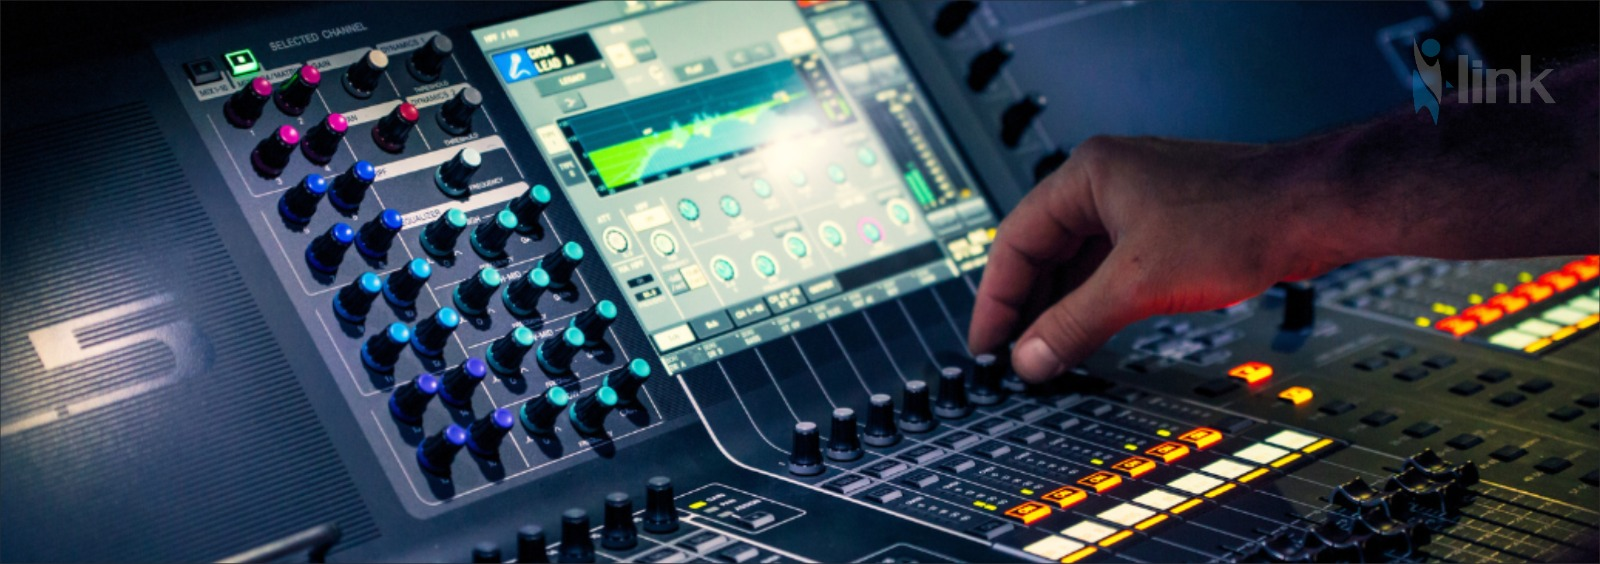
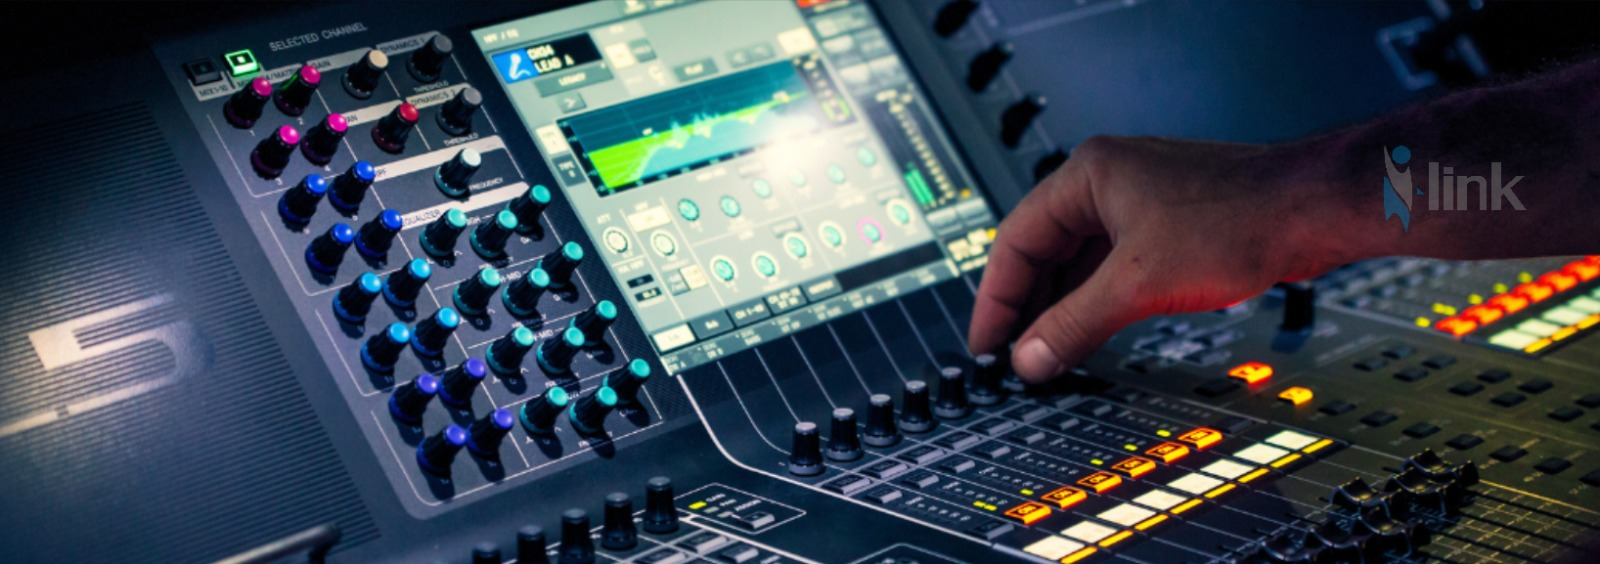
okay

diff --git a/src/app/elv-solution/audio-visual-solution/Audio.tsx b/src/app/elv-solution/audio-visual-solution/Audio.tsx
@@ -178,12 +178,11 @@ export default function Audio() {
             className="absolute inset-0 bg-cover bg-center md:bg-fixed"
             style={{
               backgroundImage: `url('${bannerBackground}')`,
-              filter: "brightness(0.4)",
+            
             }}
           />
           {/* Dark overlay for better text visibility */}
-          <div className="absolute inset-0 bg-gradient-to-b from-black/60 via-black/40 to-black/80" />
-        </motion.div>
+            </motion.div>
 
         {/* Content Container */}
         <motion.div
@@ -323,7 +322,7 @@ export default function Audio() {
                 className="relative aspect-[16/10] bg-gray-900 overflow-hidden shadow-2xl"
               >
                 <Image
-                  src="/images/OurCompanies.png"
+                  src="/audio/av.png"
                   alt="Professional presenting solutions"
                   fill
                   className="object-cover hover:scale-105 transition-all duration-700 ease-out"
@@ -441,7 +440,7 @@ export default function Audio() {
                 className=" relative w-full bg-gray-900 overflow-hidden shadow-2xl h-[220px] sm:h-[260px]  md:h-[320px]  lg:aspect-[16/11]  lg:min-h-[400px] lg:h-auto lg:order-2"
               >
                 <Image
-                  src="/images/audio/audio.jpg"
+                  src="/audio/av2.png"
                   alt="Professional audio visual solutions"
                   fill
                   className="object-cover hover:scale-105 transition-all duration-700 ease-out"

diff --git a/src/app/customised-solution/Customized.tsx b/src/app/customised-solution/Customized.tsx
@@ -14,7 +14,7 @@ const Customized = () => {
 
   // --- Banner-specific vars ---
   const background =
-    "/banner/customizedsolution.png";
+    "/banner/customised.png";
 
   const bannerContainerVariants: Variants = {
     hidden: { opacity: 0 },
@@ -118,12 +118,11 @@ const Customized = () => {
             className="absolute inset-0 bg-cover bg-center bg-fixed"
             style={{
               backgroundImage: `url('${background}')`,
-              filter: "brightness(0.4)",
+    
             }}
           />
           {/* Dark overlay for better text visibility */}
-          <div className="absolute inset-0 bg-gradient-to-b from-black/60 via-black/40 to-black/80" />
-        </motion.div>
+            </motion.div>
 
         {/* Content Container */}
         <motion.div

diff --git a/src/app/elv-solution/Solution.tsx b/src/app/elv-solution/Solution.tsx
@@ -160,7 +160,7 @@ export default function ELVSolutions() {
             className="absolute inset-0 bg-cover bg-center bg-fixed"
             style={{
               backgroundImage: `url('${bannerBackground}')`,
-              filter: "brightness(0.4)",
+            
             }}
           />
           {/* Dark overlay for better text visibility */}

diff --git a/src/app/elv-solution/pabx/Pabx.tsx b/src/app/elv-solution/pabx/Pabx.tsx
@@ -167,7 +167,7 @@ export default function Pabx() {
             className="absolute inset-0 bg-cover bg-center md:bg-fixed"
             style={{
               backgroundImage: `url('${bannerBackground}')`,
-              filter: "brightness(0.4)",
+ 
             }}
           />
          </motion.div>
